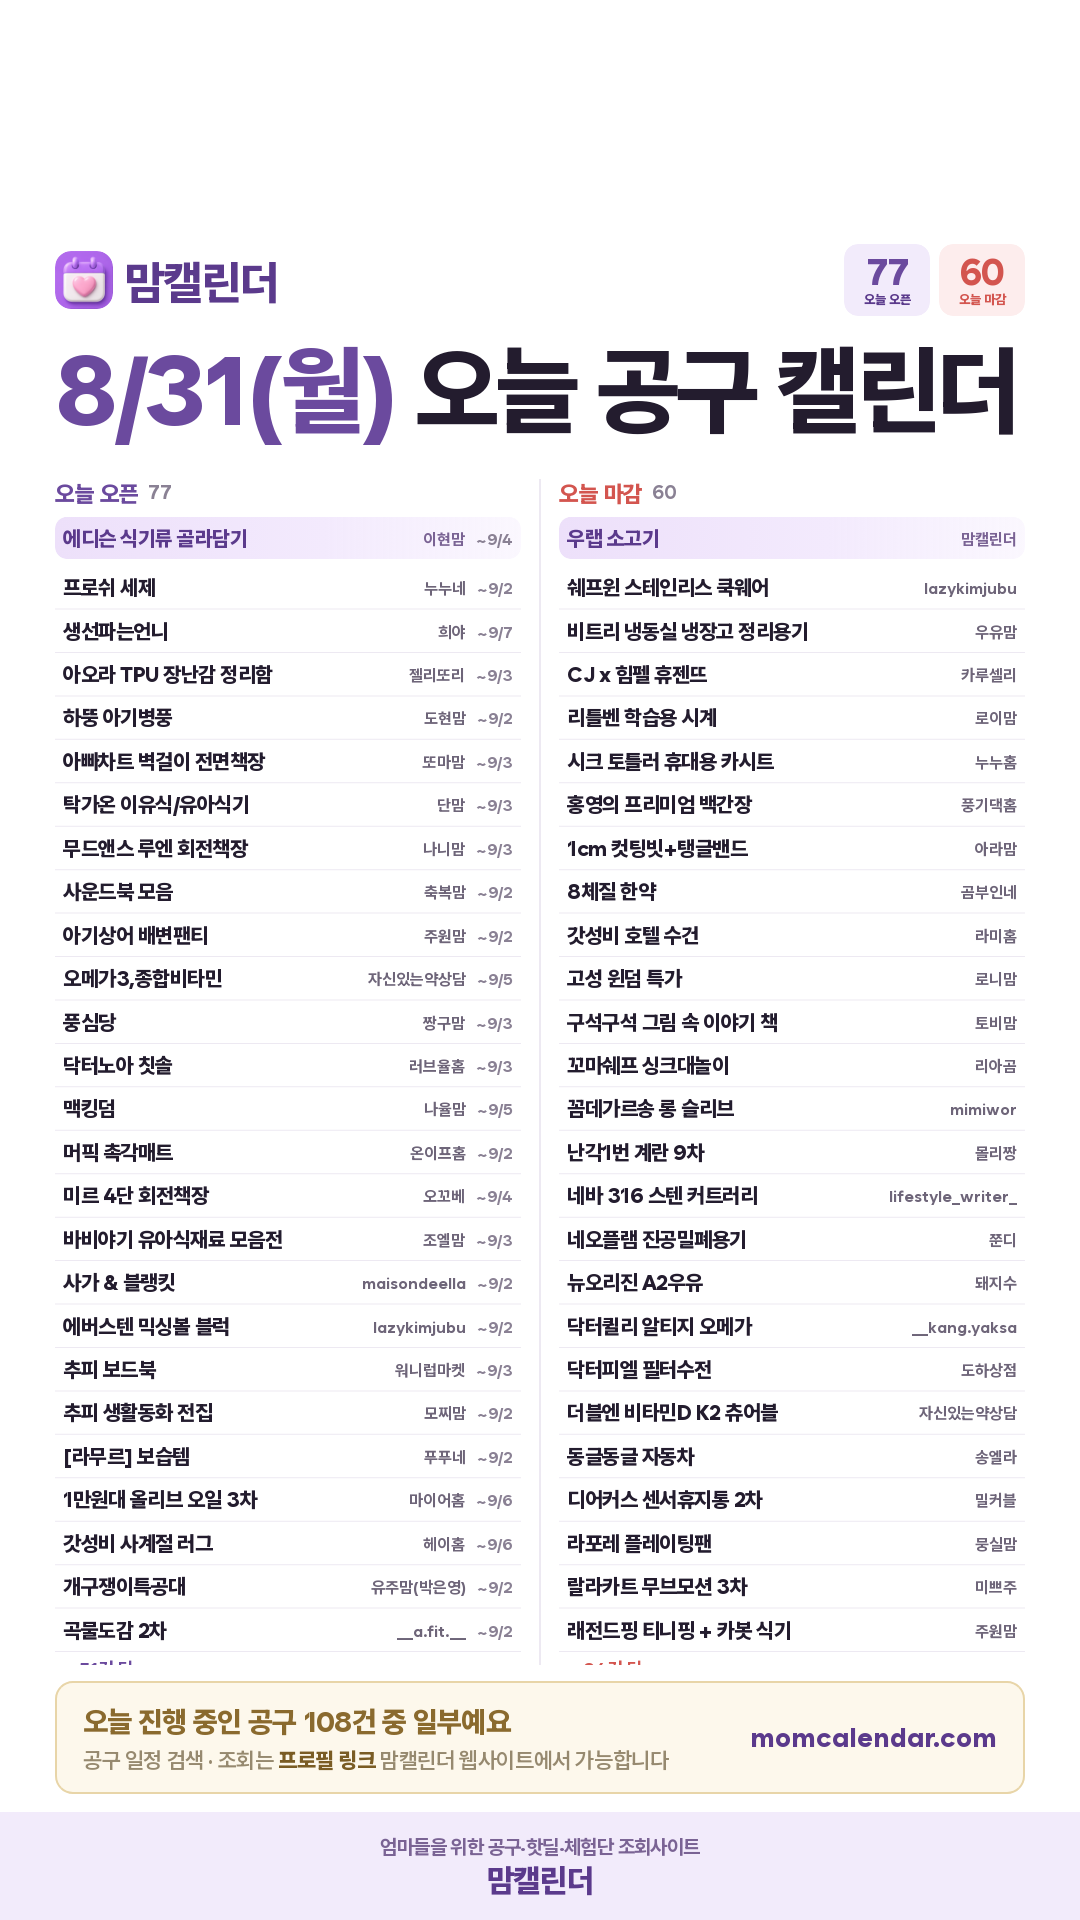
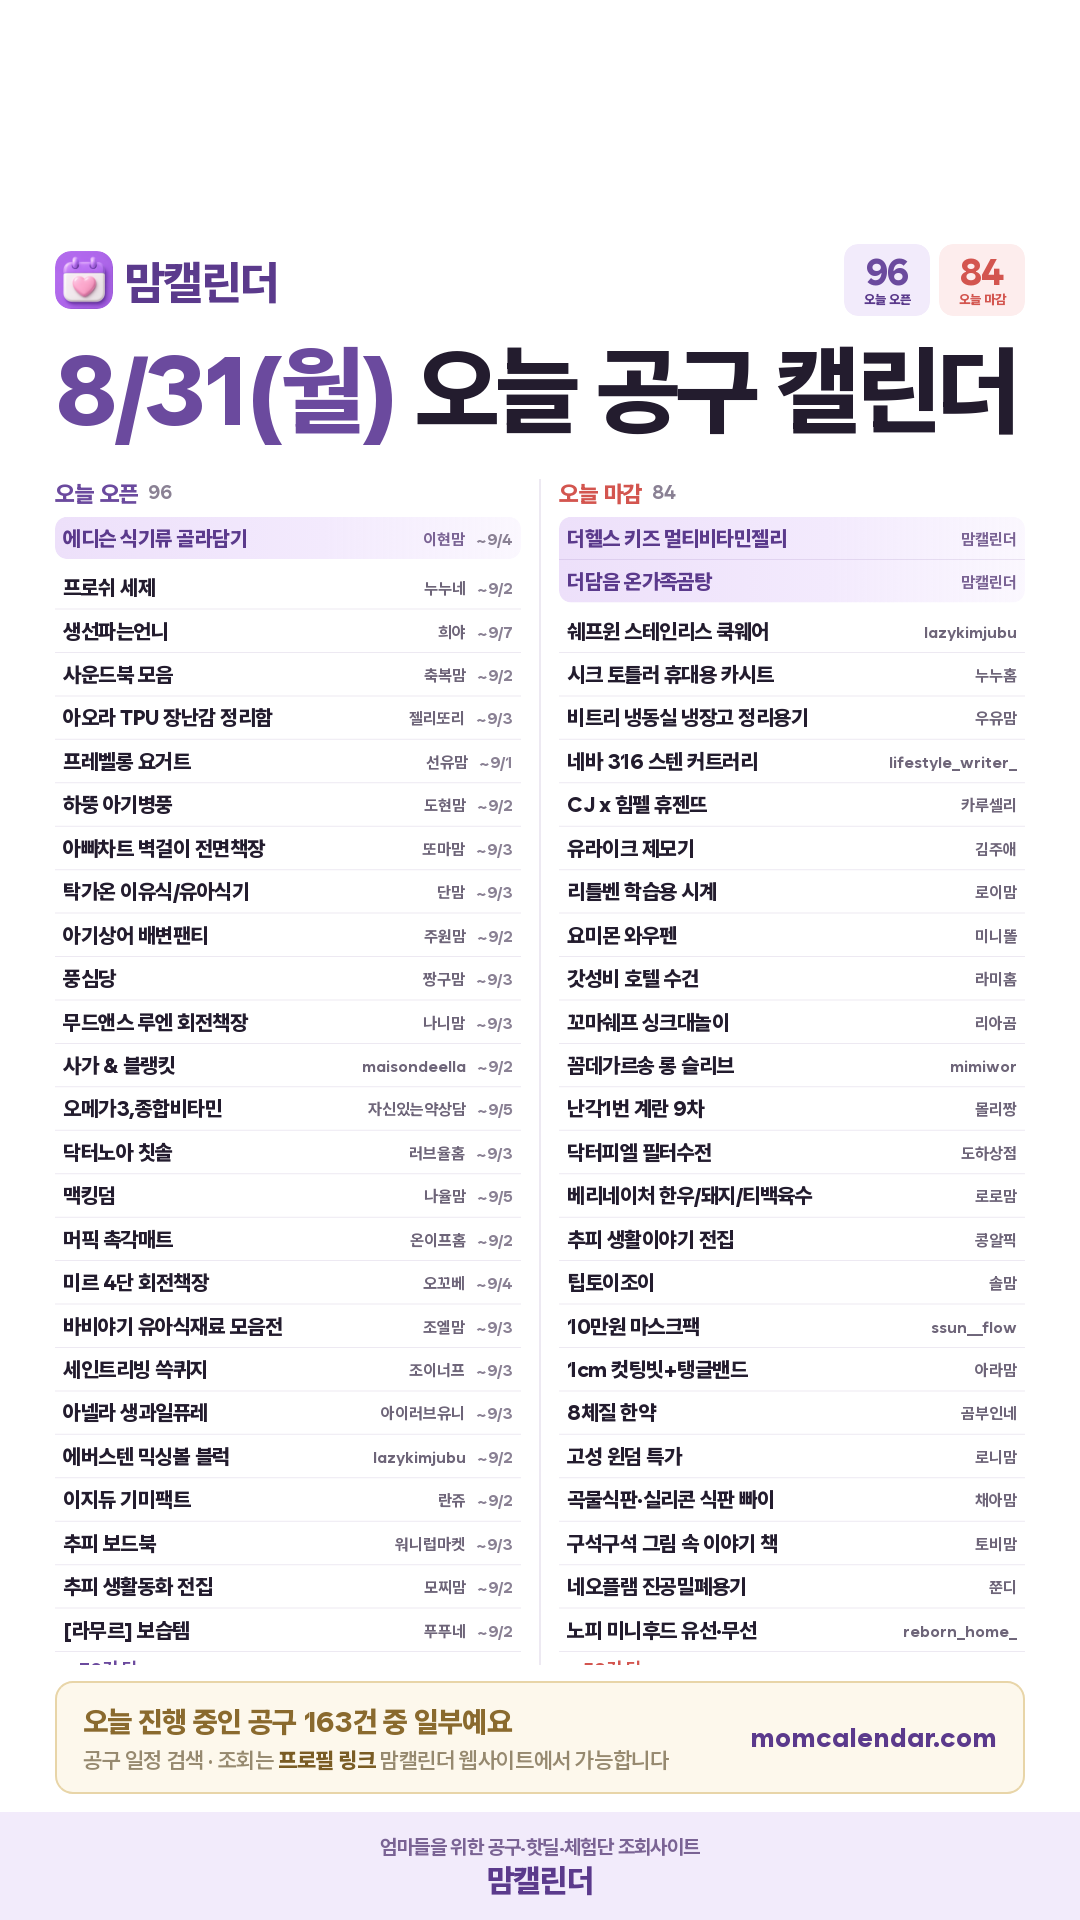
아침 인스타 카드 (2026-08-28)

diff --git a/daily/2026-08-31.html b/daily/2026-08-31.html
@@ -19,7 +19,7 @@ textarea{width:100%;height:260px;border:1px solid #E3DCEF;border-radius:10px;pad
 .todo p{font-size:12.5px;color:#6B6379;line-height:1.75;margin-top:6px}
 .todo a{color:#5B2E8C;font-weight:700}
 </style></head><body>
-<div class="hd"><div class="wrap"><h1>8월 31일(월) 인스타 카드</h1><p>오픈 77건 · 마감 60건</p></div></div>
+<div class="hd"><div class="wrap"><h1>8월 31일(월) 인스타 카드</h1><p>오픈 96건 · 마감 84건</p></div></div>
 <div class="wrap">
   
   <div class="card"><img src="./2026-08-31.png" alt="오늘 공구 카드"></div>
@@ -30,7 +30,7 @@ textarea{width:100%;height:260px;border:1px solid #E3DCEF;border-radius:10px;pad
 맘캘린더에서 공유드리는
 8월 31일(월) 오늘 공구 캘린더
 
-오픈 72건 · 마감 54건
+오픈 89건 · 마감 72건
 
 ━━━━━━━━━━━━━━
 
@@ -40,22 +40,26 @@ textarea{width:100%;height:260px;border:1px solid #E3DCEF;border-radius:10px;pad
 🔓 오늘 오픈하는 공구
 · 프로쉬 세제 — 누누네 (~9/2)
 · 생선파는언니 — 희야 (~9/7)
+· 사운드북 모음 — 축복맘 (~9/2)
 · 아오라 TPU 장난감 정리함 — 젤리또리 (~9/3)
+· 프레벨롱 요거트 — 선유맘 (~9/1)
 · 하뚱 아기병풍 — 도현맘 (~9/2)
 · 아빠차트 벽걸이 전면책장 모음전 — 또마맘 (~9/3)
 · 탁가온 실리콘 이유식/유아식기 — 단맘 (~9/3)
-· 무드앤스 루엔 회전책장 — 나니맘 (~9/3)
-· 사운드북 모음 — 축복맘 (~9/2)
 · 아기상어 배변팬티 — 주원맘 (~9/2)
-· 어썸키즈 오메가3,종합비타민 — 자신있는약상담 (~9/5)
 · 풍심당 — 짱구맘 (~9/3)
+· 무드앤스 루엔 회전책장 — 나니맘 (~9/3)
+· 사가 방수쿠션 &amp; 뉴본커버 &amp; 블랭킷 — maisondeella (~9/2)
+· 어썸키즈 오메가3,종합비타민 — 자신있는약상담 (~9/5)
 · 닥터노아 칫솔 — 러브율홈 (~9/3)
 · 맥킹덤 — 나율맘 (~9/5)
 · 머픽 촉각매트 — 온이프홈 (~9/2)
 · 미르 4단 회전책장 — 오꼬베 (~9/4)
 · 바비야기 유아식재료 모음전 — 조엘맘 (~9/3)
-· 사가 방수쿠션 &amp; 뉴본커버 &amp; 블랭킷 — maisondeella (~9/2)
+· 세인트리빙 쓱퀴지 — 조이너프 (~9/3)
+· 아넬라 생과일퓨레 — 아이러브유니 (~9/3)
 · 에버스텐 스텐 믹싱볼 + 블럭 2차 — lazykimjubu (~9/2)
+· 이지듀 기미팩트 — 란쥬 (~9/2)
 · 추피 보드북 — 워니럽마켓 (~9/3)
 · 추피 생활동화 전집 — 모찌맘 (~9/2)
 · [라무르] 보습템 — 푸푸네 (~9/2)
@@ -66,47 +70,43 @@ textarea{width:100%;height:260px;border:1px solid #E3DCEF;border-radius:10px;pad
 · 꿈꾸는 달팽이 목욕놀이 스티커 — 우유맘 (~9/3)
 · 녹티 골드 부자팩 — 윤지쌤 (~9/6)
 · 뉴이키즈 캐리어 트라이크 — 채쓰맘 (~9/2)
-· 닌자 보스 텀블러 블렌더 — minhi.house (~9/3)
-· 달달책방 — ming_9.3 (~9/3)
-· 또비앙또 미아방지 가방 — 벨라하우스 (~9/3)
-· 라이스클레이 — 미니똘 (~9/3)
-…나머지 39건은 맘캘린더 사이트에서 보실 수 있어요
+…나머지 56건은 맘캘린더 사이트에서 보실 수 있어요
 
 ⏰ 오늘 마감하는 공구
-· 우랩 소고기 — 맘캘린더 @momcal_
+· 더헬스 키즈 멀티비타민젤리 — 맘캘린더 @momcal_
+· 더담음 온가족곰탕 — 맘캘린더 @momcal_
 · 쉐프윈 스테인리스 쿡웨어 12차 — lazykimjubu
-· 비트리 냉동실 냉장고 정리용기 — 우유맘
-· CJ x 힘펠 휴젠뜨 — 카루셀리
-· 리틀벤 학습용 시계 — 로이맘
 · 시크 아이폴드T 토틀러 휴대용 카시트 — 누누홈
-· 홍영의 프리미엄 백간장 — 풍기댁홈
-· 1cm 컷팅빗+탱글밴드 — 아라맘
-· 8체질 한약 — 곰부인네
+· 비트리 냉동실 냉장고 정리용기 — 우유맘
+· 네바 316 스텐 커트러리 2차 — lifestyle_writer_
+· CJ x 힘펠 휴젠뜨 — 카루셀리
+· 유라이크 제모기 — 김주애
+· 리틀벤 학습용 시계 — 로이맘
+· 요미몬 와우펜 — 미니똘
 · 갓성비 호텔 수건 — 라미홈
-· 고성 윈덤 특가 — 로니맘
-· 구석구석 숨어있는 그림 속 이야기 책 — 토비맘
 · 꼬마쉐프 싱크대놀이 — 리아곰
 · 꼼데가르송 &amp; 메종키츠네 롱 슬리브 기획전 — mimiwor
 · 난각1번 계란 9차 — 몰리짱
-· 네바 316 스텐 커트러리 2차 — lifestyle_writer_
-· 네오플램 진공밀폐용기 — 쭌디
-· 뉴오리진 A2우유 — 돼지수
-· 닥터퀼리 알래스카 알티지 오메가 — __kang.yaksa
 · 닥터피엘 필터수전 — 도하상점
+· 베리네이처 한우/돼지/티백육수 — 로로맘
+· 추피 생활이야기 전집 — 콩알픽
+· 팁토이조이 — 솔맘
+· 10만원 이상 구매시 줄기세포배양액 마스크팩 — ssun__flow
+· 1cm 컷팅빗+탱글밴드 — 아라맘
+· 8체질 한약 — 곰부인네
+· 고성 윈덤 특가 — 로니맘
+· 곡물식판·실리콘 식판 빠이 — 채아맘
+· 구석구석 숨어있는 그림 속 이야기 책 — 토비맘
+· 네오플램 진공밀폐용기 — 쭌디
+· 노피 미니후드 유선·무선 — reborn_home_
+· 뉴오리진 A2우유 — 돼지수
+· 닌자 크리스피 에어프라이어 — 동굴리뷰
+· 닥터데니스 치약 — 뭉릉도원이네
+· 닥터퀼리 알래스카 알티지 오메가 — __kang.yaksa
 · 더블엔 비타민D K2 츄어블 — 자신있는약상담
 · 동글동글 자동차 — 송엘라
 · 디어커스 센서휴지통 2차 — 밀커블
-· 라포레 플레이팅팬 — 뭉실맘
-· 랄라카트 무브모션 3차 — 미쁘주
-· 래전드핑 티니핑 + 카봇 식기 — 주원맘
-· 로지오가닉 (신제품) 배도라지 + 보리차 — 도아로운
-· 르넥트 피니쉬 팩트 — selfro_narae
-· 리틀콩 가을 실내복 — 쀼맘
-· 릴팡 모음전 — 오니맘
-· 마이퍼스트 키즈워치폰 — 여행특가 말랑맘
-· 매직쉐프 전동그라인더 2차 — 햇림
-· 모슈 텀블러 — 요오리
-…나머지 21건은 맘캘린더 사이트에서 보실 수 있어요
+…나머지 39건은 맘캘린더 사이트에서 보실 수 있어요
 
 ━━━━━━━━━━━━━━
 
@@ -119,12 +119,12 @@ textarea{width:100%;height:260px;border:1px solid #E3DCEF;border-radius:10px;pad
 ⚠ 공구 일정은 판매자 사정에 따라 변경되거나 조기 마감될 수 있어요. 구매 전에 해당 셀러 계정에서 한 번 더 확인해 주세요.
 
 #맘캘린더 #공구일정 #육아공구 #육아용품 #책육아 #오늘의공구 #공구추천 #육아맘 #맘스타그램 #공동구매 #육아정보 #공구정보</textarea>
-    <div class="meta">2176자 / 2200자 · 오픈 32/71 · 마감 33/54</div>
+    <div class="meta">2187자 / 2200자 · 오픈 32/88 · 마감 33/72</div>
     <button class="btn btn2" onclick="cp('cap','캡션')">캡션 복사</button>
   </div>
   <div class="card">
     <div class="meta" style="margin:0 0 8px;font-weight:800;color:#5B2E8C">네이버 블로그용 (blog.naver.com/momcal) — 수정해서 쓰셔도 돼요</div>
-    <textarea id="btitle" style="height:54px">8월 31일(월) 오늘 오픈 공구일정 찾는법 | 닌자·우리별피자·주방신박템2·메디인랩·메리루스·쌍화환·어썸키즈·온가족 공구 외</textarea>
+    <textarea id="btitle" style="height:54px">8월 31일(월) 오늘 오픈 인스타 공구 일정 찾는법 | 닌자·뿌리는·우리별피자·주방신박템2 공구 외</textarea>
     <button class="btn btn2" onclick="cp('btitle','블로그 제목')">블로그 제목 복사</button>
     <textarea id="bbody" style="margin-top:9px">맘캘린더 채널 한눈에
 · 전체 공구 일정 실시간 검색 → https://momcalendar.com
@@ -137,12 +137,10 @@ textarea{width:100%;height:260px;border:1px solid #E3DCEF;border-radius:10px;pad
 · 카톡 수다방 → https://open.kakao.com/o/gr2kJhCh
 ─────────────
 
-8월 31일(월), 오늘 새로 오픈하는 인스타 공구일정 77건을 카테고리별로 정리했어요.
-오늘 마감되는 공구도 60건 있으니 놓치지 마세요.
+8월 31일(월), 오늘 새로 오픈하는 인스타 공구일정 97건을 카테고리별로 정리했어요.
+오늘 마감되는 공구도 84건 있으니 놓치지 마세요.
 
-
-
-■ 오늘 오픈하는 공구 77건
+■ 오늘 오픈하는 공구 97건
 
 [육아]
 · [라무르] 보습템 — 푸푸네 (~9/2 마감)
@@ -164,23 +162,30 @@ textarea{width:100%;height:260px;border:1px solid #E3DCEF;border-radius:10px;pad
 · 사운드북 모음 — 축복맘 (~9/2 마감)
 · 슈슈아띠 멀티볼&amp;흡착볼 — 아얌얌 (~9/6 마감)
 · 아기상어 배변팬티 — 주원맘 (~9/2 마감)
+· 아넬라 생과일퓨레 — 아이러브유니 (~9/3 마감)
 · 아빠차트 벽걸이 전면책장 모음전 — 또마맘 (~9/3 마감)
 · 아오라 TPU 장난감 정리함 — 젤리또리 (~9/3 마감)
 · 에디슨 식기류 골라담기 — 이현맘 (~9/4 마감)
 · 이지컷 네임스티커 / 스쿨라인 (팀or 학년반 두줄네임스티커)* 부터 출고 — 밥좀주이서 (~9/3 마감)
 · 이큐 — 송엘라 (~9/3 마감)
 · 이큐의 천재들 — 워니럽마켓 (~9/3 마감)
+· 주니 이유식 모음 — 디어마더수현 (~9/3 마감)
 · 주니물컵 — 따리따리 (~9/2 마감)
+· 초등 한문장 요약의 힘 — 양아름 (~9/3 마감)
 · 추피 보드북 — 워니럽마켓 (~9/3 마감)
 · 추피 생활동화 전집 — 모찌맘 (~9/2 마감)
 · 코코보드 — 또담이네 (~9/2 마감)
+· 크레욜라 메스프리 — yoonyoon.life (~9/3 마감)
 · 탁가온 실리콘 이유식/유아식기 — 단맘 (~9/3 마감)
+· 푸름이까꿍 — 러블리트니 (~9/3 마감)
 · 하뚱 아기병풍 — 도현맘 (~9/2 마감)
 
 [리빙]
+· BAS 바스 탈취제 외 골라담기 — school__lab (~9/6 마감)
 · 닥터노아 칫솔 — 러브율홈 (~9/3 마감)
 · 라포레 플레이팅팬 2차 — 예지홈 (~9/5 마감)
 · 레드루트 캡슐표백제 런칭 — 도하상점 (~9/3 마감)
+· 매직캔 — 켈리맘 (~9/3 마감)
 · 무드앤스 루엔 회전책장 — 나니맘 (~9/3 마감)
 · 물때 제거제 — 라미홈 (~9/3 마감)
 · 박수재명인 달항아리 — 히히스카이라운지 (~9/2 마감)
@@ -195,6 +200,7 @@ textarea{width:100%;height:260px;border:1px solid #E3DCEF;border-radius:10px;pad
 [식품]
 · 1만원대 올리브 오일 3차 — 마이어홈 (~9/6 마감)
 · 곡물도감 2차 — __a.fit.__ (~9/2 마감)
+· 모두의육수 — 봉봉테이블 (~9/3 마감)
 · 무항생제 활새우 — 명희홈쿡 (~9/3 마감)
 · 물디홈 소스 — 안감자 (~9/2 마감)
 · 미라클 감자탕 — miracle_eunju119 (~9/1 마감)
@@ -202,15 +208,20 @@ textarea{width:100%;height:260px;border:1px solid #E3DCEF;border-radius:10px;pad
 · 생선파는언니 — 희야 (~9/7 마감)
 · 숯총각김 — 먹조아맘 (~8/31 마감)
 · 아임수차·코차 — 대장언니 (~9/2 마감)
+· 엉파 양고기 — 현경 (~9/3 마감)
 · 우아한김 — 우동맘 (~9/3 마감)
 · 조리용 올리브오일 — 진명테이블 (~9/2 마감)
 · 페로제도 연어 — son.mom_recipe (~9/4 마감)
 · 풍심당 — 짱구맘 (~9/3 마감)
+· 한끼통살 — to.ongs_ (~9/3 마감)
 
 [건강]
+· 드시모네 — 츄아맘 (~9/3 마감)
 · 메디인랩 전제품 — 하늘 (~9/3 마감)
 · 메리루스 멀티 비타민 — 유주맘(윤예진) (~9/4 마감)
+· 베르베린·글루타치온·키플러스 — jjuunn_mom (~9/3 마감)
 · 쌍화환 — 뷰약사 (~9/6 마감)
+· 알티지 오메가3 츄어블 — eunha__yak (~9/3 마감)
 · 어썸키즈 오메가3,종합비타민 — 자신있는약상담 (~9/5 마감)
 · 온가족 오메가3 — master_yewon (~9/3 마감)
 · 올레샷 — shonyroom (~9/2 마감)
@@ -221,51 +232,72 @@ textarea{width:100%;height:260px;border:1px solid #E3DCEF;border-radius:10px;pad
 [뷰티]
 · 녹티 골드 부자팩 — 윤지쌤 (~9/6 마감)
 · 르메이엘 물먹패드 — sani_and_haeng (~9/2 마감)
+· 바이라샴푸 — aiou__ (~9/3 마감)
 · 올라 전품목 할인 — 곰부인네 (~9/4 마감)
 · 이지듀 기미팩트 — 란쥬 (~9/2 마감)
+· 정글몬스터 칫솔치약 — 0909iii09 (~9/3 마감)
+· 프로우 괄사 젤클렌저 — west__star__ (~9/3 마감)
 
 [가전]
 · 닌자 보스 텀블러 블렌더 — minhi.house (~9/3 마감)
+· 닌자 블렌드보스 — minhi.house (~9/3 마감)
+· 뿌리는 공기청정기 — inyoung161 (~9/3 마감)
 · 우리별피자 수재화덕 — 부끄 (~9/4 마감)
 · 주방신박템2 롤링쿠커 — 미르홈 (~9/4 마감)
 
 [패션]
 · 솔리디아 압박밴드 — plie_maden (~9/3 마감)
+· 쇼퍼박 의류데이 — parksovin (~9/3 마감)
 · 지니핑크 베이직 가을 티셔츠 — 헤이지니 (~9/2 마감)
 
 [인테리어]
 · 갓성비 사계절 러그 — 헤이홈 (~9/6 마감)
 · 미르 4단 회전책장 — 오꼬베 (~9/4 마감)
+· 엔그로운 독서대, 책장, 스툴 — 밍빵 (~9/3 마감)
 
-■ 오늘 마감하는 공구 60건
+■ 오늘 마감하는 공구 84건
+· 10만원 이상 구매시 줄기세포배양액 마스크팩 — ssun__flow
 · 1cm 컷팅빗+탱글밴드 — 아라맘
 · 8체질 한약 — 곰부인네
+· AMT — ryuniiii
 · CJ x 힘펠 휴젠뜨 — 카루셀리
 · 갓성비 호텔 수건 — 라미홈
 · 고성 윈덤 특가 — 로니맘
+· 곡물식판·실리콘 식판 빠이 — 채아맘
 · 구석구석 숨어있는 그림 속 이야기 책 — 토비맘
 · 꼬마쉐프 싱크대놀이 — 리아곰
 · 꼼데가르송 &amp; 메종키츠네 롱 슬리브 기획전 — mimiwor
 · 난각1번 계란 9차 — 몰리짱
 · 네바 316 스텐 커트러리 2차 — lifestyle_writer_
 · 네오플램 진공밀폐용기 — 쭌디
+· 노피 미니후드 유선·무선 — reborn_home_
 · 뉴오리진 A2우유 — 돼지수
+· 닌자 크리스피 에어프라이어 — 동굴리뷰
+· 닥터데니스 치약 — 뭉릉도원이네
 · 닥터퀼리 알래스카 알티지 오메가 — __kang.yaksa
 · 닥터피엘 필터수전 — 도하상점
+· 담치락 밀폐용기 — 연이운이네
+· 더담음 온가족곰탕 — 맘캘린더
 · 더블엔 비타민D K2 츄어블 — 자신있는약상담
+· 더헬스 키즈 멀티비타민젤리 — 맘캘린더
 · 동글동글 자동차 — 송엘라
 · 디어커스 센서휴지통 2차 — 밀커블
 · 라포레 플레이팅팬 — 뭉실맘
 · 랄라카트 무브모션 3차 — 미쁘주
 · 래전드핑 티니핑 + 카봇 식기 — 주원맘
+· 러닝리소스 골라담기 — 서노
 · 로지오가닉 (신제품) 배도라지 + 보리차 — 도아로운
 · 르넥트 피니쉬 팩트 — selfro_narae
 · 리틀벤 학습용 시계 — 로이맘
 · 리틀콩 가을 실내복 — 쀼맘
 · 릴팡 모음전 — 오니맘
+· 마더니아 여성 청결제 — seojiyeon._
 · 마이퍼스트 키즈워치폰 — 여행특가 말랑맘
 · 매직쉐프 전동그라인더 2차 — 햇림
+· 모달 올인원 매트리스 커버 &amp; 모달 구름이불 — 별난맘
 · 모슈 텀블러 — 요오리
+· 미닉스 MAX·소핀 — 아무르제이
+· 바디드라이어 — 비쥬봉봉
 · 바스 탈취제 대용량 — 카루셀리
 · 바이탈플랜트 롤팬 — 송엘라
 · 베리네이처 한우/돼지/티백육수 — 로로맘
@@ -274,6 +306,7 @@ textarea{width:100%;height:260px;border:1px solid #E3DCEF;border-radius:10px;pad
 · 뻬르따마 화장지 — 시크드
 · 사토노유키 실큰두부 — 쭌디
 · 세라잼 — 드엘리사
+· 세이펜&amp;세이톡 — 애프리
 · 숯총각김 — 먹조아맘
 · 쉐프윈 스테인리스 쿡웨어 12차 — lazykimjubu
 · 스타우브 세라믹 사각서빙 트레이 세트 — 꼼시키친
@@ -282,33 +315,42 @@ textarea{width:100%;height:260px;border:1px solid #E3DCEF;border-radius:10px;pad
 · 알루아 와인거치대 — 러브율홈
 · 에디슨 휴대용 가열보온병 — 태리하루
 · 엔에프락 밀폐용기 — 헤이홈
+· 올유베베 가을 신상 — 
 · 요미몬 와우펜 — 미니똘
-· 우랩 소고기 — 맘캘린더
-· 울애기쌩쌩 전라인 — 부끄
+· 우리별피자 — 벨라블랑
 · 유라이크 제모기 — 김주애
+· 유팡 시그니처2 플러스 UV소독기 — 라뷰베어
+· 이지앤프리 — 서노
 · 정글몬스터 칫솔, 치약, 덴탈 — 0909iii09
+· 제트피규어 — 뽀민맘
+· 조이앤원더 워셔블 야외용 분필 — 
 · 조이크 말차세럼 — 양미라
 · 초경량 316 스텐 매직쉐프 그라인더 3차 — 체리밀
+· 초정담 한우곰탕 — 
 · 추피 생활이야기 전집 — 콩알픽
 · 칼센트 붓기 보조제 — plie_maden
+· 코알라 모기패치&amp;코알라밤&amp;코알라바스 — 
 · 키움 저학년 문해력 시리즈 7종 — 종달맘
 · 킨즈 휴대용 체어 — 말랑맘
+· 타임특가 타이거 블록 소세트 — mylittletiger_official
 · 통영산 돌문어 — 로라
+· 팁토이조이 — 솔맘
+· 포베라 유산균 — 
 · 풋네스 풋케어3종 24:00 — jangmini
 · 플로에 쿠키 — __a.fit.__
 · 홍영의 프리미엄 백간장 — 풍기댁홈
 · 휴비딕 콧물흡입기 — 뚝딱맘
 
 ■ 오늘의 브랜드: 닌자
-· 닌자 공구는 인스타 셀러들이 기간을 정해 여는 공동구매예요. 최근에는 오인스, apricot_tree11, minhi.house 님이 진행했어요.
+· 닌자 공구는 인스타 셀러들이 기간을 정해 여는 공동구매예요. 최근에는 minhi.house, 동굴리뷰, 맘이가요 님이 진행했어요.
 · 가격은 오픈일에 셀러 계정 공지로 공개돼요. 같은 제품이라도 셀러·구성에 따라 조금씩 달라서, 공지에서 확인하는 게 가장 정확해요.
 · 이번에 놓쳤다면 너무 아쉬워하지 마세요. 닌자 공구는 보통 일정 간격을 두고 다시 열려요. 전체 일정은 여기서 → https://momcalendar.com
 
 ※ 공구 일정은 판매자 사정에 따라 변경되거나 조기 마감될 수 있어요. 구매 전에 해당 셀러 계정에서 한 번 더 확인해 주세요.
 
-#공구일정 #인스타공구 #인스타공구일정 #공동구매 #오늘의공구 #육아공구 #공구모음 #닌자공구 #우리별피자공구 #주방신박템2공구 #메디인랩공구 #메리루스공구 #쌍화환공구 #어썸키즈공구 #온가족공구</textarea>
+#공구일정 #인스타공구 #인스타공구일정 #공동구매 #오늘의공구 #육아공구 #육아템 #공구모음 #닌자공구 #뿌리는공구 #우리별피자공구 #주방신박템2공구 #드시모네공구 #메디인랩공구 #메리루스공구 #베르베린공구</textarea>
     <button class="btn" onclick="cp('bbody','블로그 본문 전체')">블로그 본문 전체 복사 (태그 포함)</button>
-    <div class="meta">순서: 사진 저장 → 블로그 앱 글쓰기 → 제목 붙여넣기 → 본문 붙여넣기 → (여기에 카드 사진) 자리에 사진 → 발행. 끝의 #태그들은 자동으로 태그가 돼요</div>
+    <div class="meta">순서: 사진 저장 → 블로그 앱 글쓰기 → 제목 붙여넣기 → 본문 붙여넣기 → 본문 맨 위에 사진 추가 → 발행. 끝의 #태그들은 자동으로 태그가 돼요</div>
   </div>
 </div>
 <script>

diff --git a/daily/index.html b/daily/index.html
@@ -1,1 +1,1 @@
-<!DOCTYPE html><meta charset="UTF-8"><meta http-equiv="refresh" content="0;url=./2026-08-29.html">
+<!DOCTYPE html><meta charset="UTF-8"><meta http-equiv="refresh" content="0;url=./2026-08-31.html">
